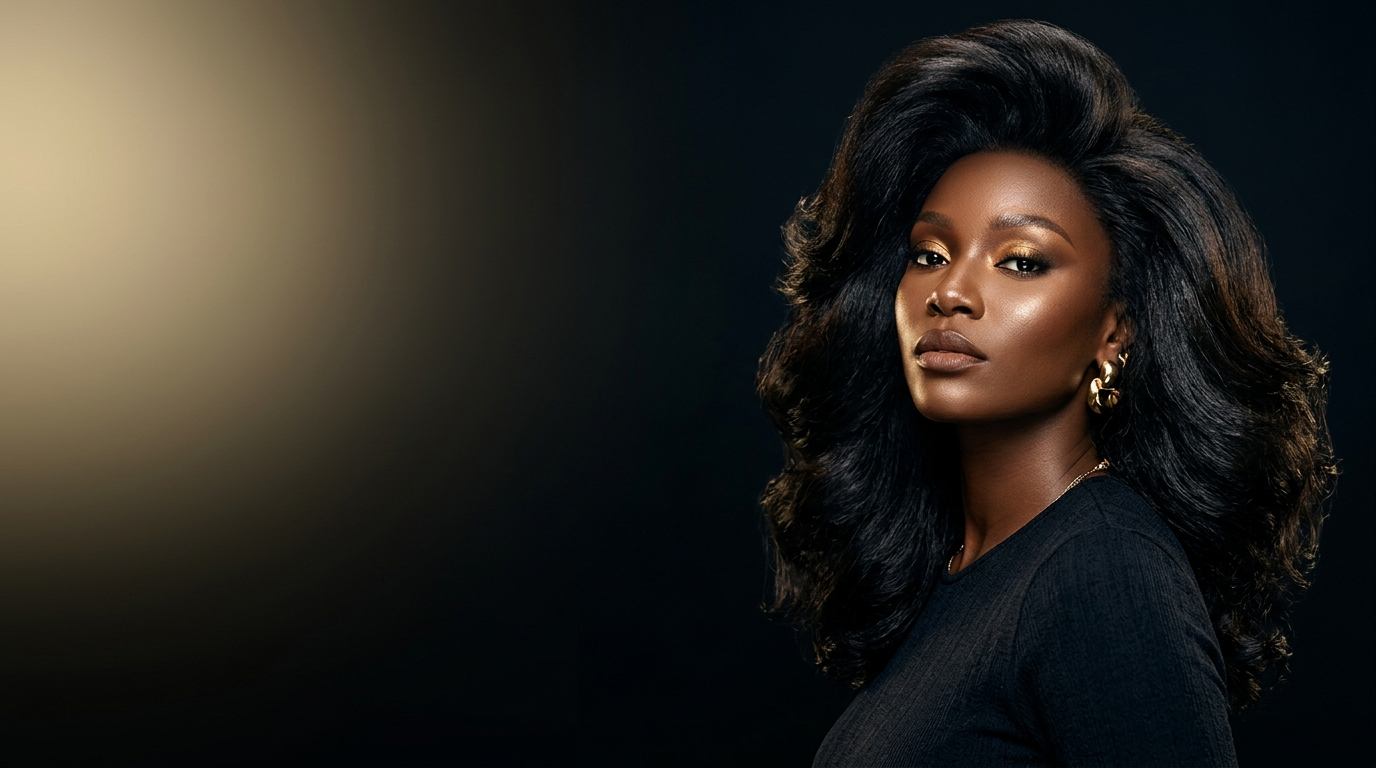
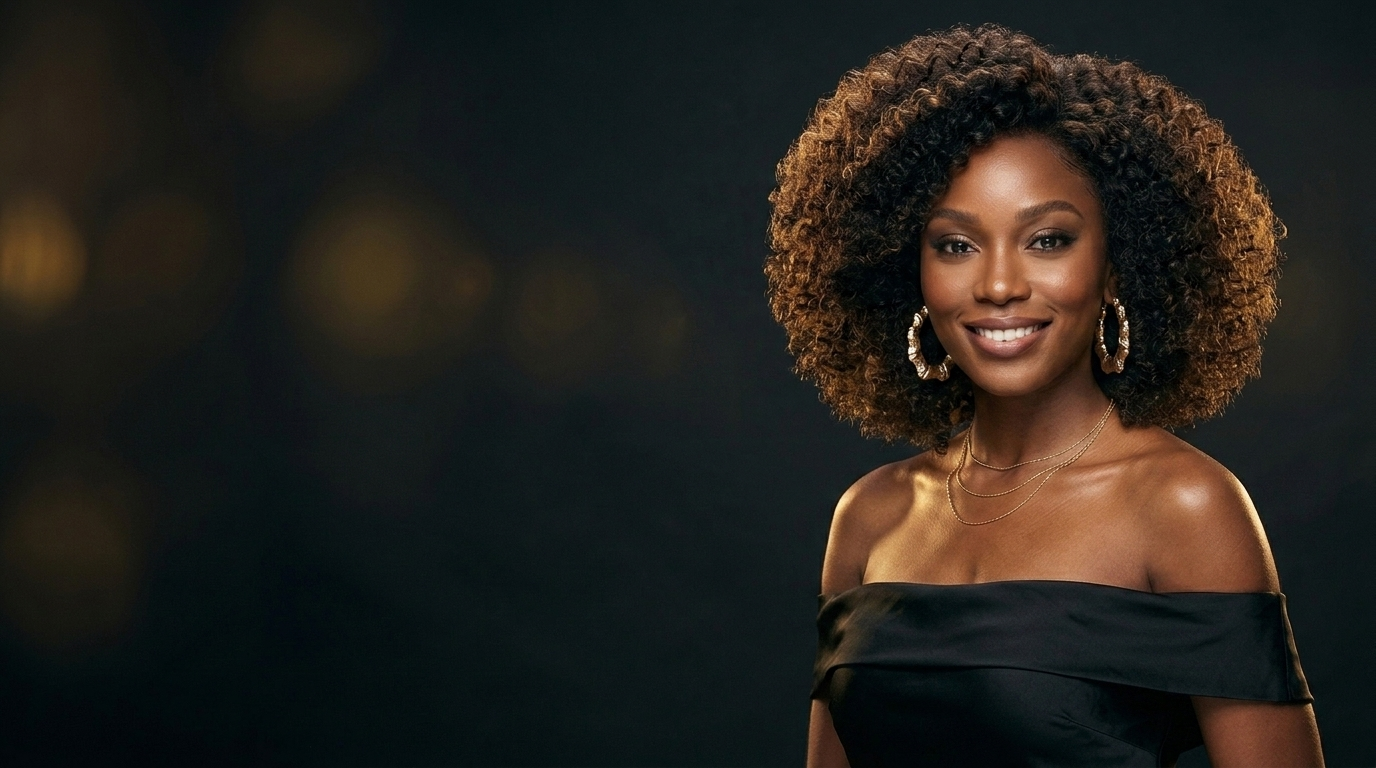
Homepage imagery — photoreal AI hero slides + editorial portrait
Replace the homepage brand photography with new photorealistic, on-brand images
(warm black-and-gold luxury look, real-photo aesthetic):
  - assets/images/hero.jpg          — signature body-wave hero (slide 1)
  - assets/images/hero-2.jpg        — bridal hero (slide 2, "Your Crown for the Big Day")
  - assets/images/hero-3.jpg        — textured/curly hero (slide 3, "Wear Your Crown")
  - assets/images/model-editorial.jpg — "Hand-crafted in Nairobi" editorial portrait
All framed with dark negative space on the left so the existing hero headline and
CTAs overlay cleanly.

front-page.php: hero slide 1 now always uses assets/images/hero.jpg instead of
the nura_hero_image Customizer value, so the curated hero shows reliably even if
an older Customizer image is set. Hero copy stays Customizer-editable.

Note: product cards keep real product photos, and the "Real NURA women" community
band is intentionally left as-is (no fabricated customer photos).

diff --git a/nura-beauty/front-page.php b/nura-beauty/front-page.php
@@ -69,7 +69,7 @@ if ( ! function_exists( 'nura_home_tiles' ) ) {
 
 $slides = array(
 	array(
-		'img'      => ( nura_opt( 'nura_hero_image' ) ? nura_opt( 'nura_hero_image' ) : NURA_URI . 'assets/images/hero.jpg' ),
+		'img'      => NURA_URI . 'assets/images/hero.jpg',
 		'eyebrow'  => ( nura_opt( 'nura_hero_eyebrow' ) ? nura_opt( 'nura_hero_eyebrow' ) : __( 'The House of Radiant Confidence', 'nura-beauty' ) ),
 		'title'    => ( nura_opt( 'nura_hero_title' ) ? nura_opt( 'nura_hero_title' ) : __( 'Luxury Human Hair Wigs, Made for You', 'nura-beauty' ) ),
 		'sub'      => ( nura_opt( 'nura_hero_subtitle' ) ? nura_opt( 'nura_hero_subtitle' ) : __( 'Verified human hair, HD lace and glueless units, hand-crafted in Nairobi and delivered across Kenya.', 'nura-beauty' ) ),
